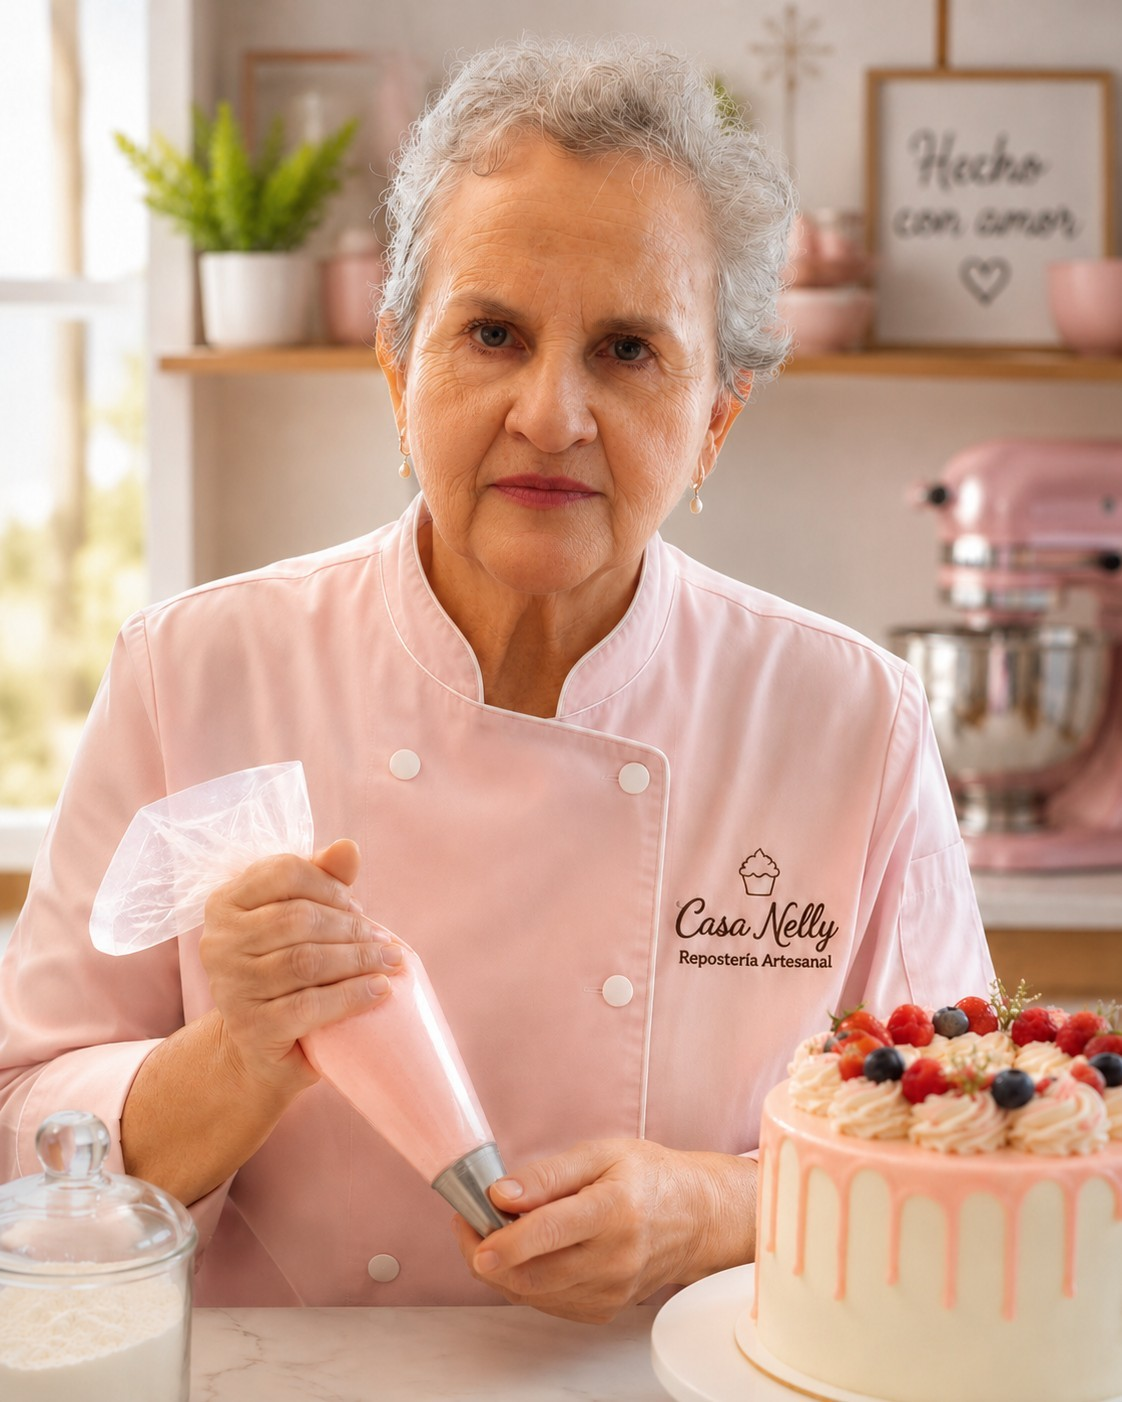
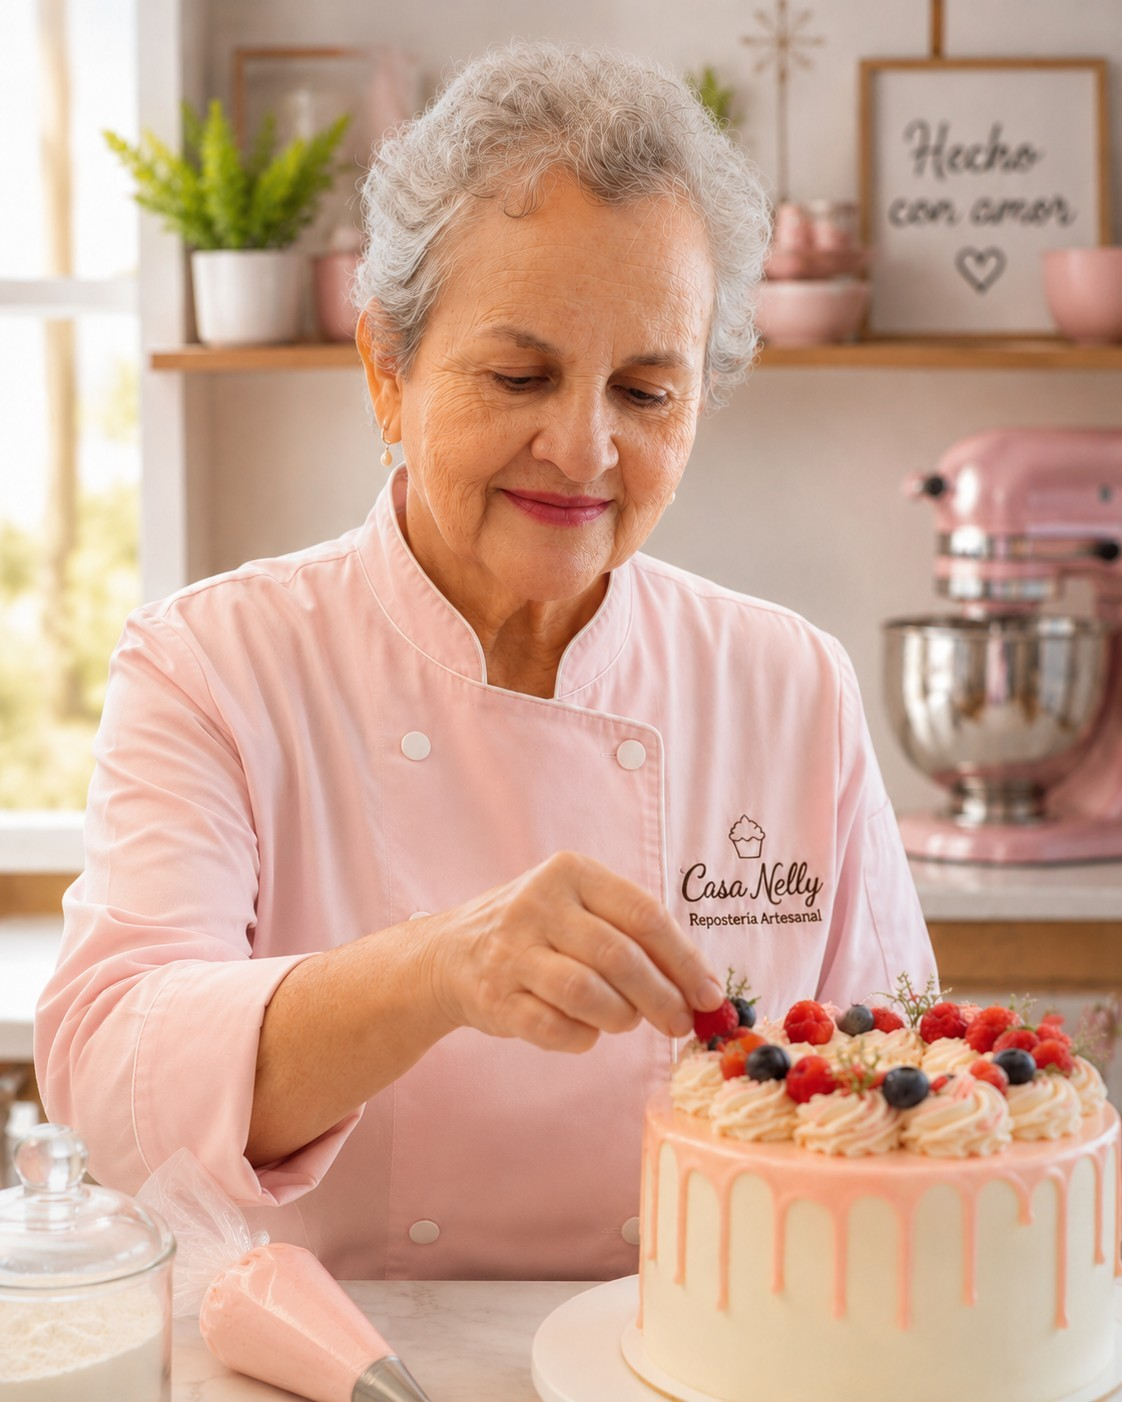
correccion nelly2 y fotos en movil

diff --git a/app/page.tsx b/app/page.tsx
@@ -73,20 +73,29 @@ export default function Home() {
       <section className="max-w-7xl mx-auto px-6 lg:px-10 pt-2 pb-20 md:pt-8 md:pb-24">
         <div className="grid lg:grid-cols-2 gap-12 lg:gap-16 items-center">
           
-          <div>
-            <div>
+          <div className="order-2 lg:order-1">
 
-  <div className="mb-2">
-    <Image
-      src="/images/logo.png"
-      alt="Casa Nelly"
-      width={280}
-      height={280}
-      priority
-      className="w-[180px] sm:w-[220px] lg:w-[280px] h-auto"
-    />
-  </div>
+            <Image
+              src="/images/logo.png"
+              alt="Casa Nelly"
+              width={280}
+              height={280}
+              priority
+              className="w-[180px] sm:w-[220px] lg:w-[280px] h-auto"
+            />
 
+            <div className="block lg:hidden mt-4 mb-8">
+              <div className="overflow-hidden rounded-[28px] shadow-xl">
+                <Image
+                  src="/images/hero.jpg"
+                  alt="Maestra Nelly"
+                  width={900}
+                  height={1200}
+                  priority
+                  className="w-full h-auto object-cover"
+                />
+              </div>
+            </div>
 
             <h1 className="mt-6 text-4xl sm:text-5xl lg:text-6xl font-bold leading-tight text-[#70703A]">
               Aprende repostería,
@@ -109,10 +118,9 @@ export default function Home() {
               </button>
             </div>
           </div>
-          </div>
 
           {/* FOTO HERO OPTIMIZADA */}
-          <div className="w-full dynamic-img-container">
+<div className="hidden lg:block order-1 lg:order-2 w-full dynamic-img-container">
             <div className="overflow-hidden rounded-[28px] sm:rounded-[36px] shadow-xl relative max-h-87.5 sm:max-h-125 lg:max-h-150">
               <Image
                 src="/images/hero.jpg"